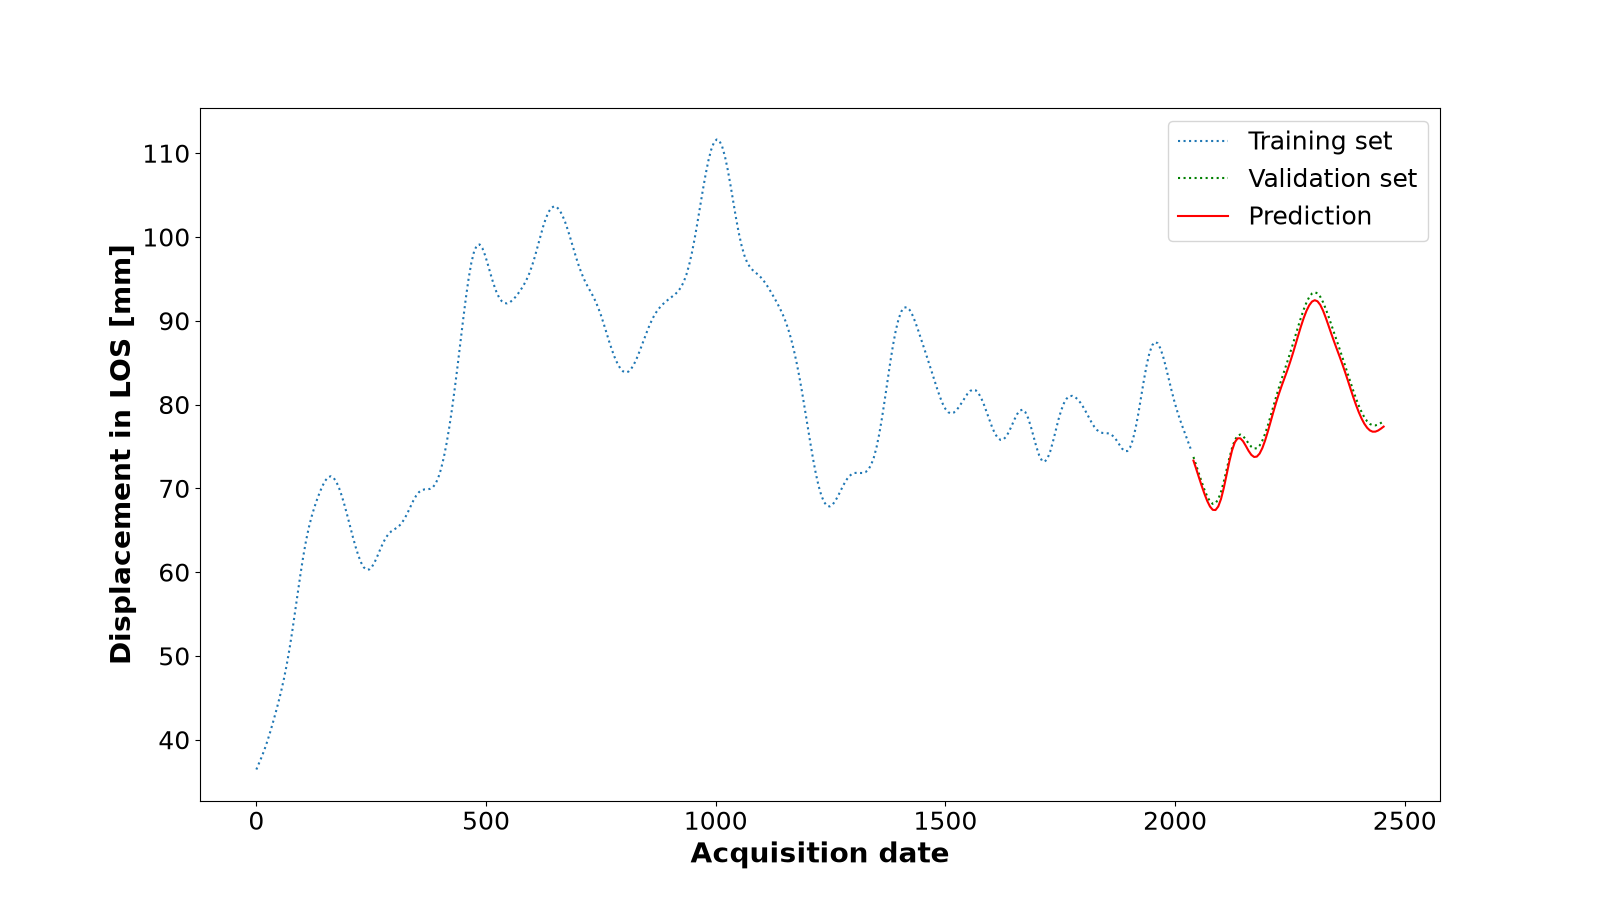
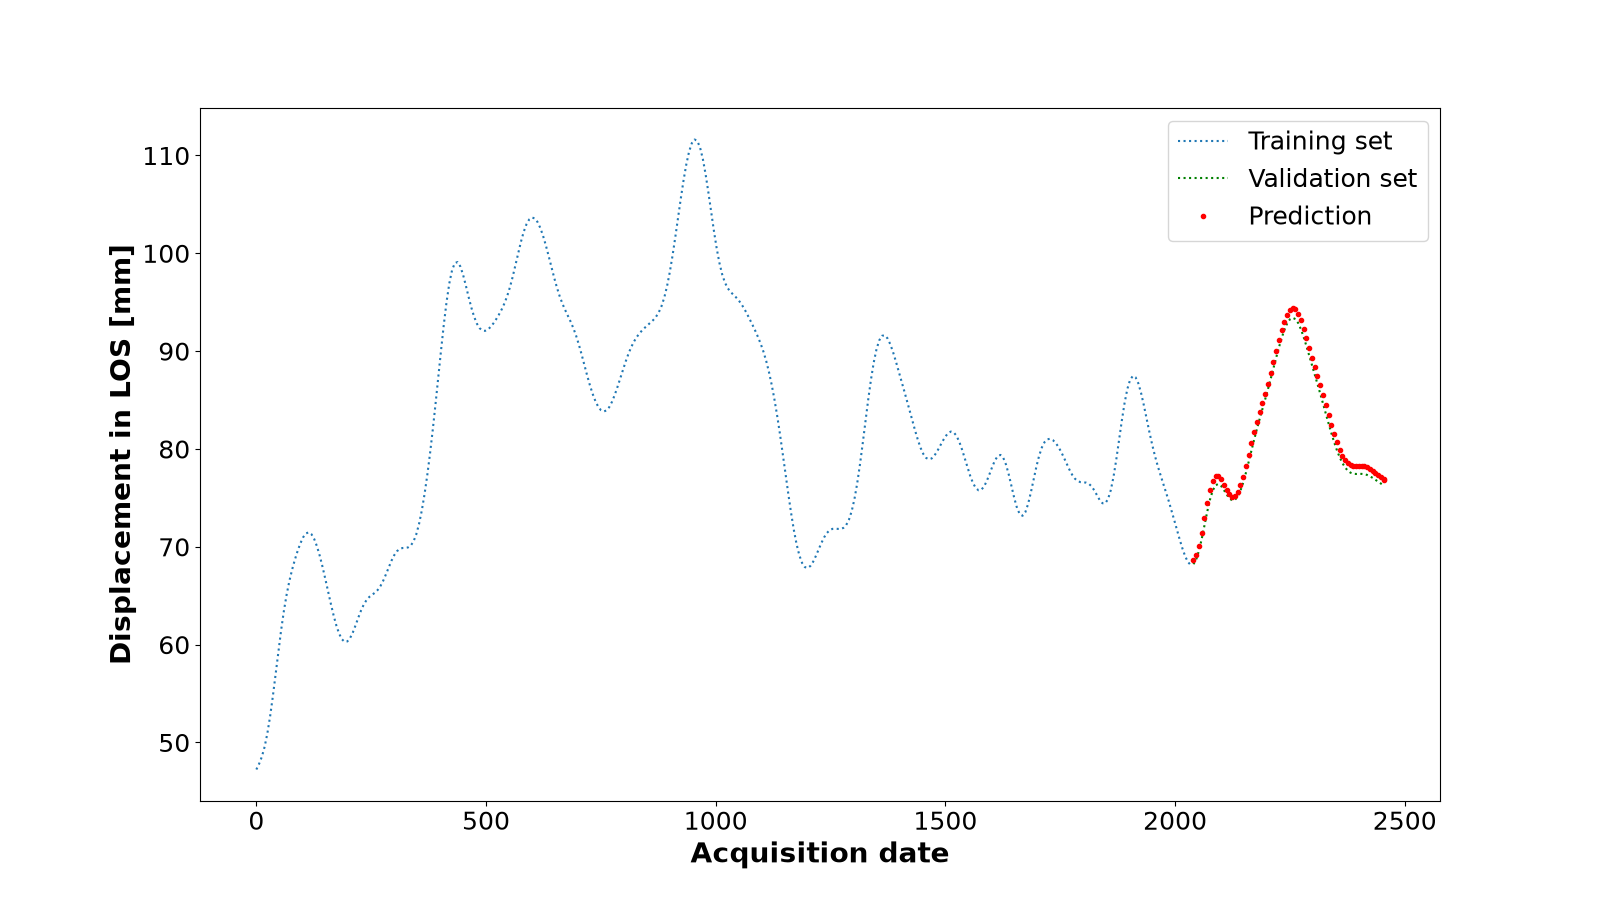
yahoo finance data for ts

diff --git a/yahoo_kursdaten.py b/yahoo_kursdaten.py
@@ -5,6 +5,7 @@ from datetime import datetime, timedelta
 
 import pandas as pd
 import yfinance as yf
+from curl_cffi import requests
 from yfinance.exceptions import YFPricesMissingError
 
 
@@ -49,7 +50,10 @@ def yahoo_kursdaten(isin: str, zeitraum: str) -> pd.DataFrame:
     except OverflowError as exc:
         raise ValueError("Das Enddatum muss vor dem 31/12/9999 liegen.") from exc
 
-    ticker = yf.Ticker(isin)
+    # Ein festes Profil vermeidet inkompatible neue "chrome"-Standardprofile.
+    # Die Session bleibt offen, da yfinance sie intern auch gemeinsam nutzt.
+    session = requests.Session(impersonate="chrome124")
+    ticker = yf.Ticker(isin, session=session)
     spalten = ["Open", "High", "Low", "Close", "Adj Close", "Volume"]
     try:
         daten = ticker.history(
